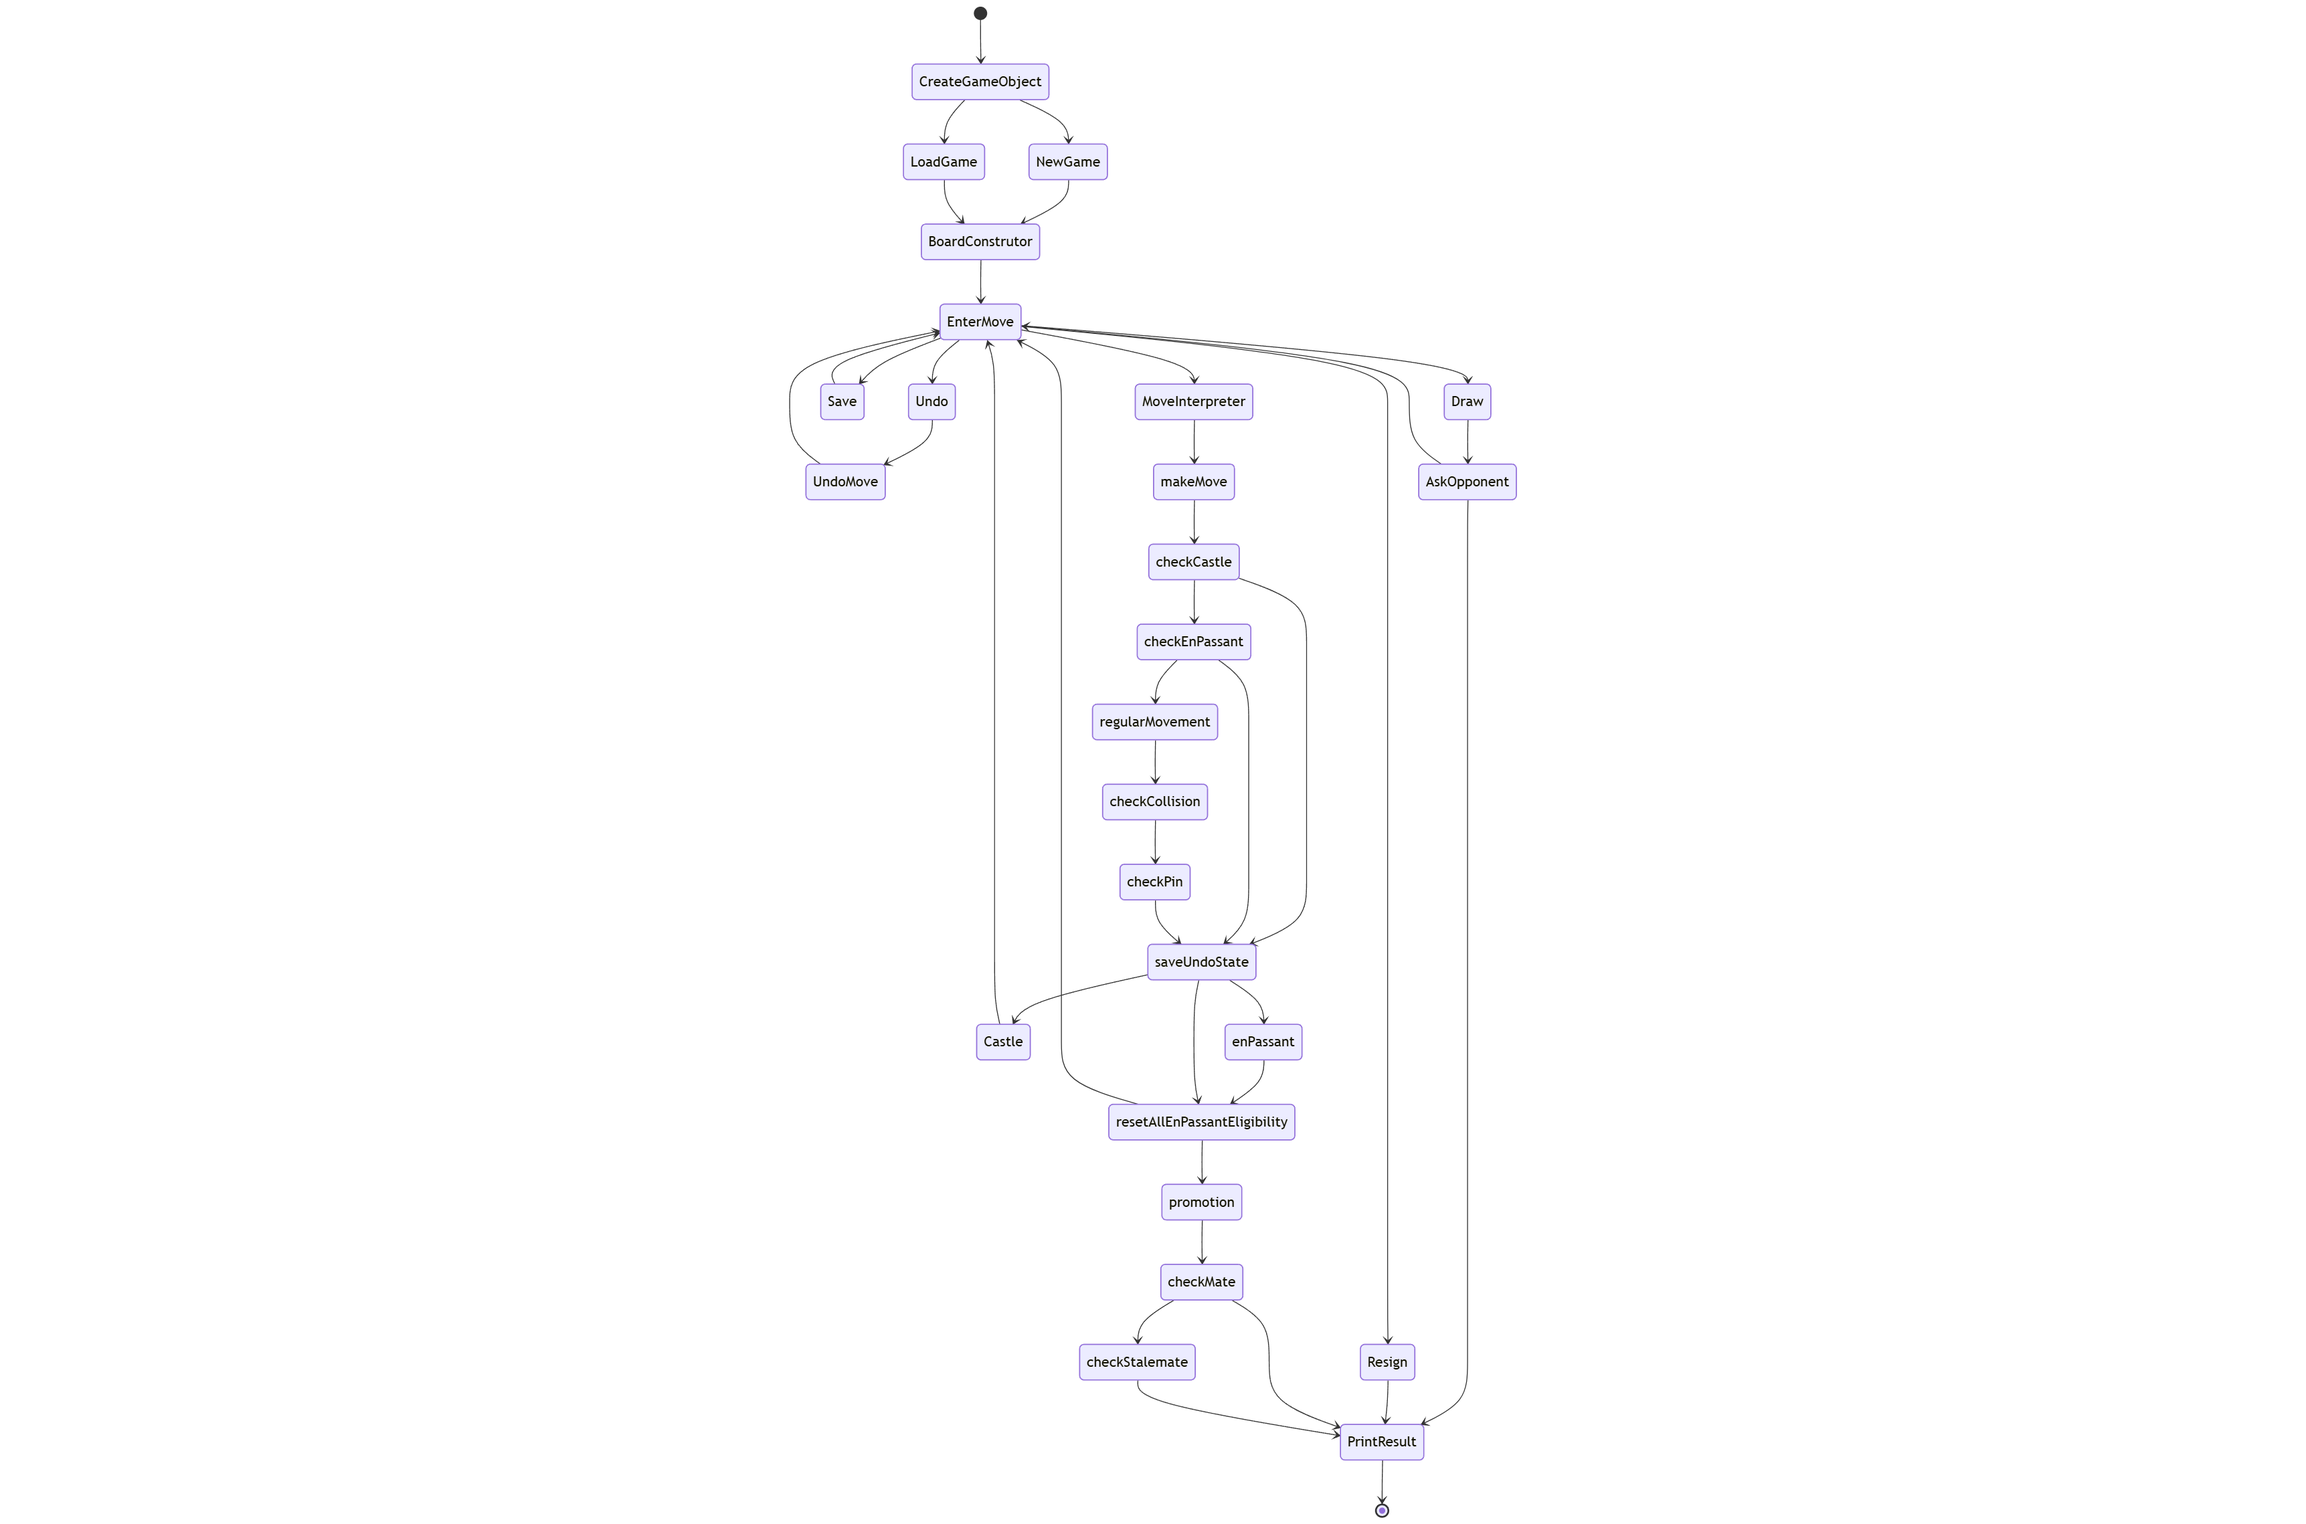
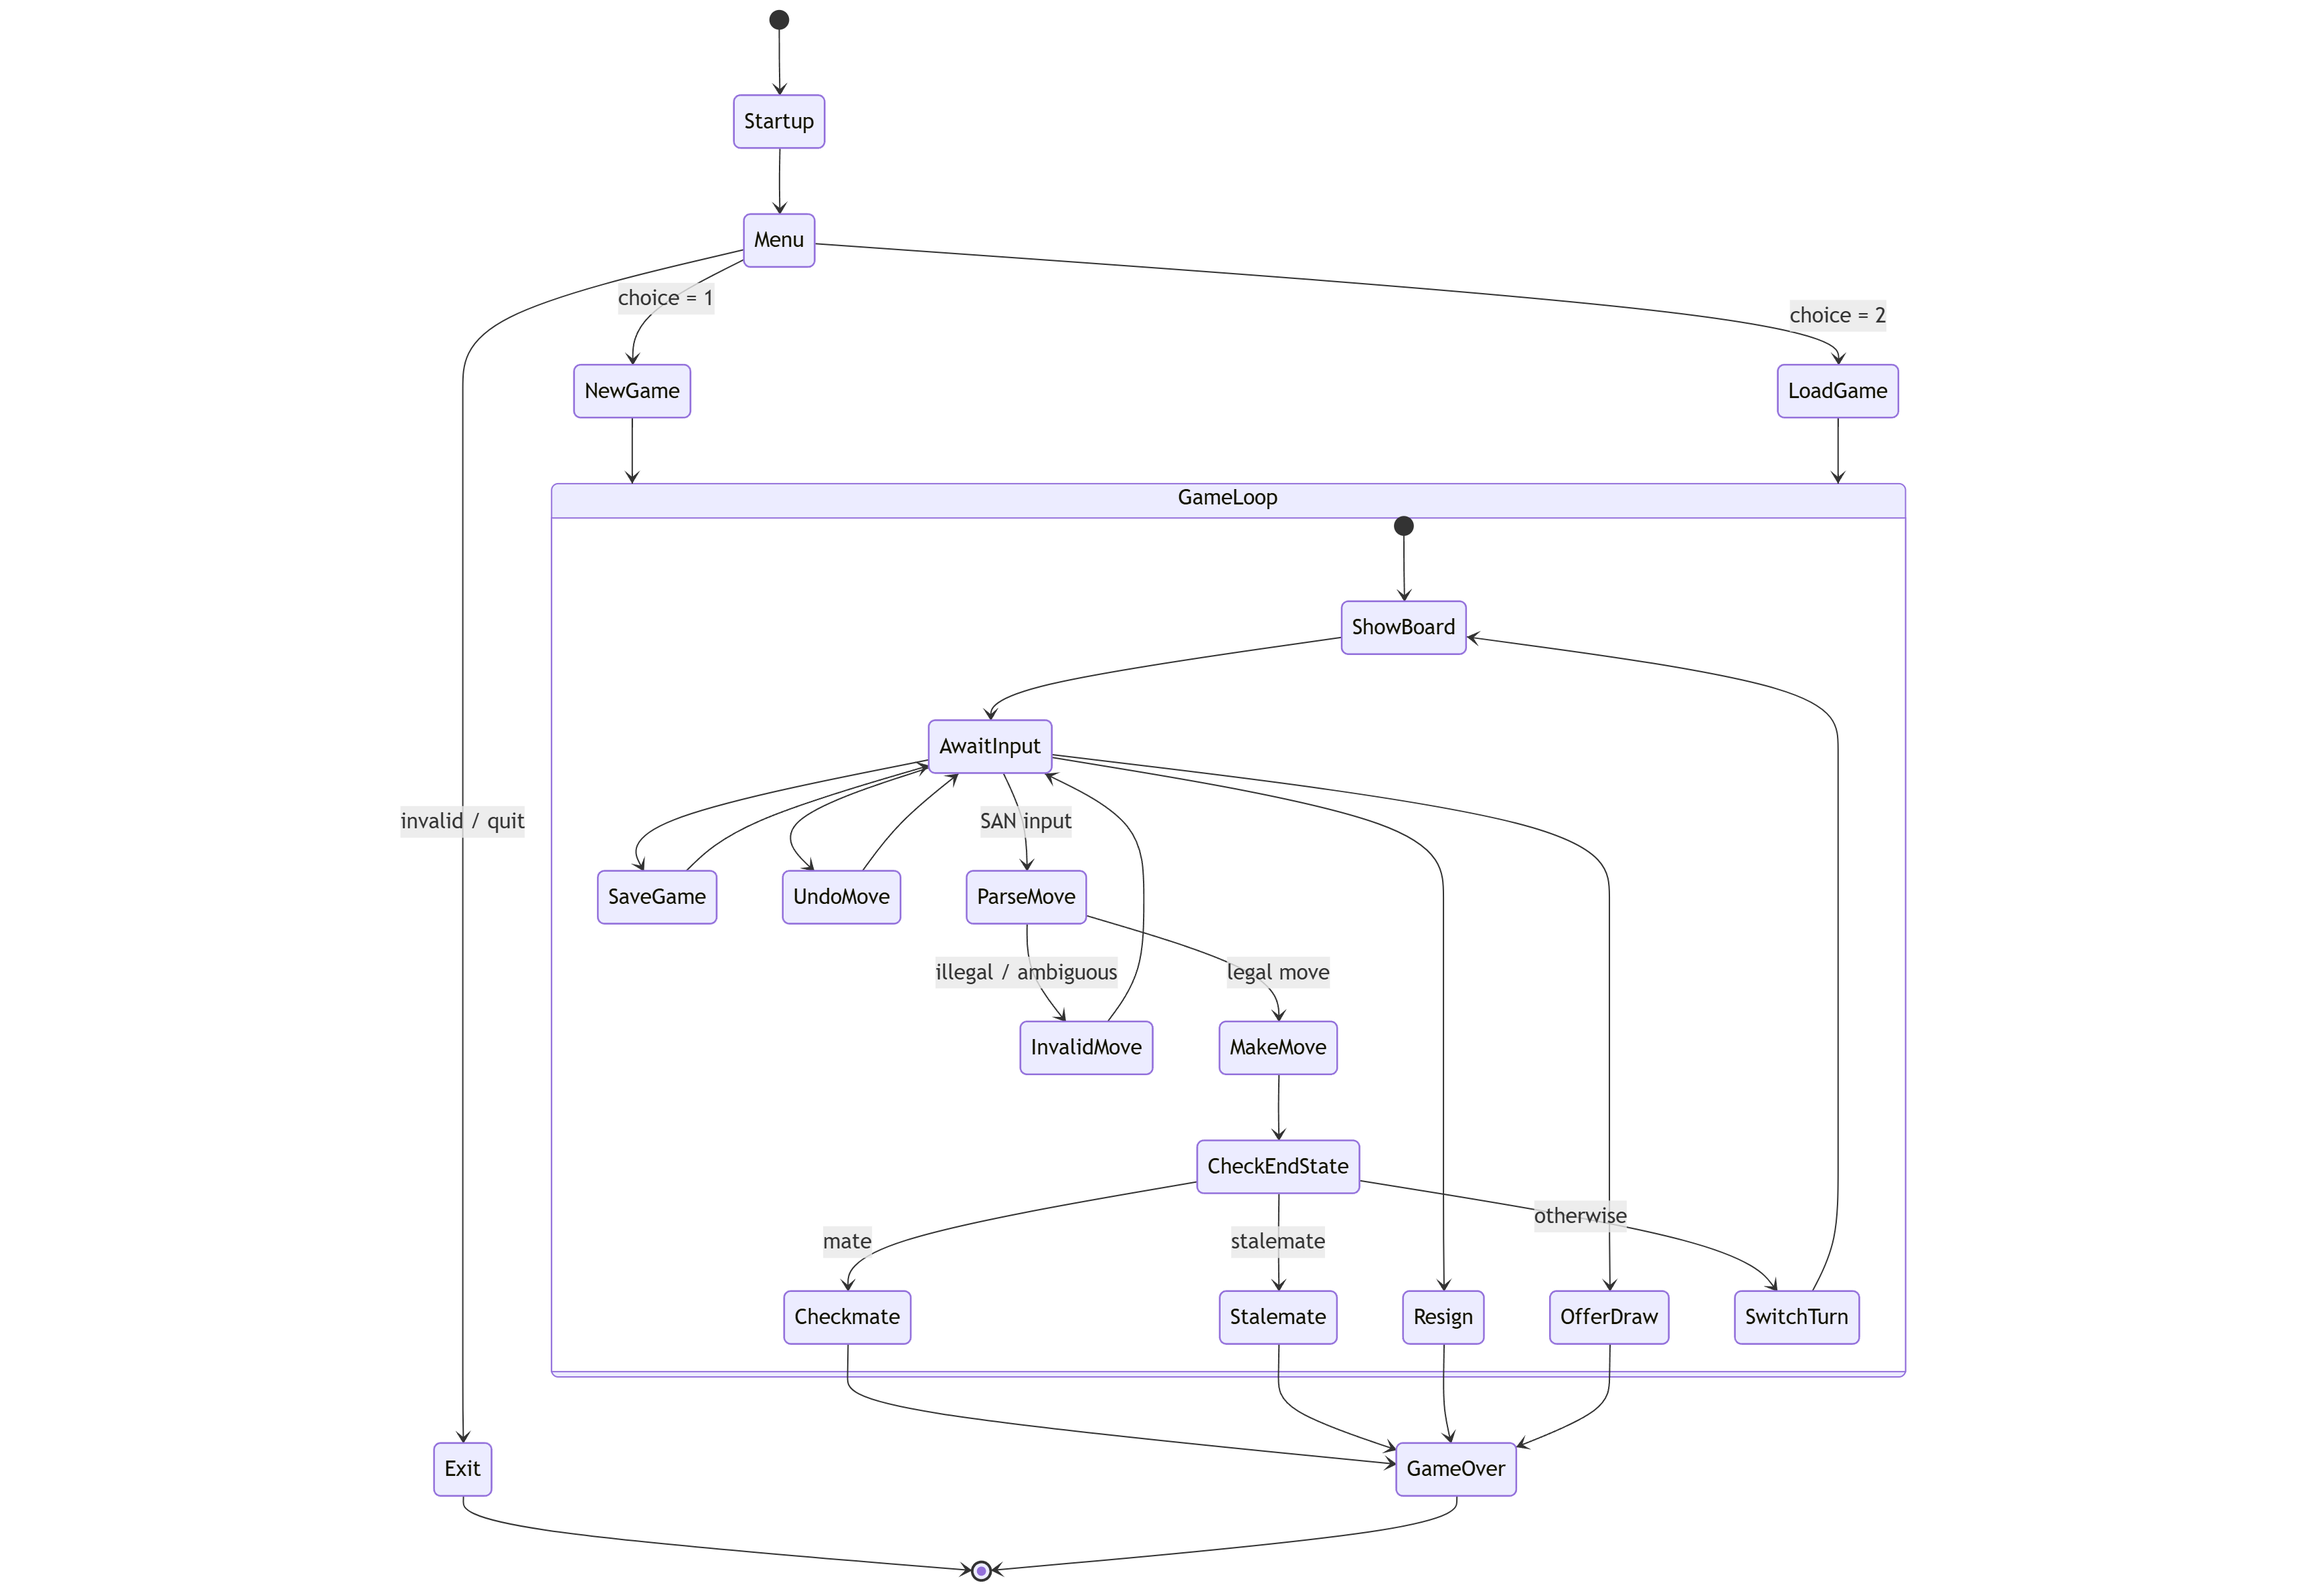
Viktor's comments about the code

diff --git a/src/chess/Board.java b/src/chess/Board.java
@@ -23,7 +23,7 @@ public class Board {
     // There are probably things I missed or got wrong so proceed with caution
     // Do your best and good luck! - Iveto :)
 
-    //default constructor - new game
+    // Default constructor - new game
     // The board has to be set up with the beginning positions of the pieces:
     // Rooks in the corners, Knights next to the rooks etc.
     // Above is black in lowercase letters, below is white in uppercase letters
@@ -57,7 +57,7 @@ public class Board {
         squares[7][4] = new King(true);
     }
 
-    //load constructor - load game
+    // Load constructor - load game
     // This constructor accepts a Piece[8][8] array and COPIES its elements in squares
     // Make sure it is a deep copy and not a shallow one
     // Do not forget input validation
@@ -91,7 +91,7 @@ public class Board {
         undoAvailable = true;
     }
 
-    //has undoMove, can't stack undo's
+    // has undoMove, can't stack undo's
     // Reverse the last played move
     // For example if I am black and play a move that is accepted and the board is updated
     // I can reverse this move or my opponent can play
@@ -282,6 +282,11 @@ public class Board {
         return false;
     }
 
+
+    // hasValidMoves()
+    // Helper method for checking Mate & Stalemate
+    // Checks if there are any valid moves for any player (returns true if there's at least one valid move, else returns false)
+    // isKingWhite is a boolean used to tell if you are trying to see if the white or black king is in check (follows the same logic as the rest of the code)
     public boolean hasValidMoves(boolean isKingWhite) {
         for(int fromFst = 0; fromFst < 8; fromFst++) {
             for(int fromSnd = 0; fromSnd < 8; fromSnd++) {
@@ -335,16 +340,23 @@ public class Board {
         return false;
     }
 
+
+    // checkMate()
+    // Checks if the king has been checkmated, returns true if there is a checkmate and false if there isn't one
+    // isKingWhite is a boolean used to tell if you are trying to see if the white or black king is in check (follows the same logic as the rest of the code)
     public boolean checkMate(boolean isKingWhite) {
         return (!hasValidMoves(isKingWhite)) && (checkCheck(isKingWhite));
     }
 
+    // checkStalemate()
+    // Check if the king is in stalemate, returns true if there is a stalemate and false if there isn't one
+    // isKingWhite is a boolean used to tell if you are trying to see if the white or black king is in check (follows the same logic as the rest of the code)
     public boolean checkStalemate(boolean isKingWhite) {
         return (!hasValidMoves(isKingWhite)) && (!checkCheck(isKingWhite));
     }
 
     // checkCastle()
-    // Checks if it is a king move
+    // Checks if the given move is a king's move
     // Checks if the king is moving 2 squares to the left or right
     // ---------------- If any check after this line fails than throw an InvalidMove error
     // Checks that there are no pieces between the king and rook
@@ -354,13 +366,6 @@ public class Board {
     // Checks that the king isn't going through squares that are attacked by enemy pieces
     // Checks that the king doesn't end up on a square attacked by enemy piece
     // If all checks pass return true. If one of the checks above the line fails return false
-
-    // castle()
-    // Moves the king and rook to the right places
-    // Careful! The king can castle both right and left side and there are slight differences
-    // call only AFTER checkCastle()
-
-    // checkCastle()
     private boolean checkCastle(Coordinates from, Coordinates to) {
         Piece king = getPiece(from);
         if (!(king instanceof King)) return false;
@@ -396,6 +401,9 @@ public class Board {
     }
 
     // castle()
+    // Moves the king and rook to the right places
+    // Careful! The king can castle both right and left side and there are slight differences
+    // call only AFTER checkCastle()
     private void castle(Coordinates from, Coordinates to) {
 
         int row = from.getFirst();
@@ -411,39 +419,6 @@ public class Board {
         ((King) king).setHasMoved(true);
         ((Rook) rook).setHasMoved(true);
     }
-
-    // checkEnPassant()
-    // Checks that it is a pawn move
-    // Checks that the pawn (pawn1) is next to another pawn (pawn2)
-    // Checks that pawn1 is trying to go to the square below pawn2
-    // ---------------- If any check after this line fails than throw an InvalidMove error
-    // Checks that LAST move pawn2 moved 2 squares up
-    // If all checks pass return true. If one of the checks above the line fails return false
-
-    // EnPassant()
-    // Moves the pawn and removes the captured enemy pawn
-    // call only AFTER checkEnPassant()
-
-    // checkPin()
-    // Checks if after a piece moves if the king will be in check
-    // Should probably not actually change the board
-    // You can use checkCheck() to make it easier maybe?
-    // If after the move the king will be in check throw InvalidMove
-
-    // promotion()
-    // Checks if it is a pawn move
-    // Checks if the pawn reached the end of the board
-    // Gets input form somewhere that tells it what to promote the pawn to
-    // Replaces the pawn with the new piece
-
-    // checkMate()
-    // Checks if the king is checkmated
-    // You can use checkCheck() and/or checkStalemate() to make it easier maybe?
-    // Returns true if he is, else false
-
-    // checkStalemate()
-    // Checks if the king is stalemated
-    // Returns true if he is, else false
 
     // checkCollision()
     // This function checks if there are any pieces between 2 sets of coordinates
@@ -496,8 +471,9 @@ public class Board {
         return false;
     }
 
-    //gets info from game for the next move - what piece and where is it moving
-    //every odd turn is White, every even turn is Black
+    // makeMove()
+    // gets info from game for the next move - what piece and where it's moving
+    // every odd turn is White, every even turn is Black
     // This function handles move validation and updating the board:
     // calls checkCastle() and depending on the result calls castle()
     // If castle() is called the function should end in some way
@@ -593,10 +569,8 @@ public class Board {
         boolean opponentWhite = !moving.isWhite();
 
         if (checkMate(opponentWhite)) {
-//            System.out.println("CHECKMATE!");
             return 1;
         } else if (checkStalemate(opponentWhite)) {
-//            System.out.println("STALEMATE!");
             return 2;
         }
 
@@ -605,11 +579,10 @@ public class Board {
 
 
     // toString method
-    // Returns a string that is going to get printed on the console
+    // Returns a string for the program to print in the console
     // Uppercase letters are for white
     // Lowercase letters are for black
     // Letters: N (Knight), Q, R, P, B, K (King)
-
     @Override
     public String toString() {
         StringBuilder sb = new StringBuilder();
@@ -655,6 +628,13 @@ public class Board {
         }
     }
 
+    // checkEnPassant()
+    // Checks that it is a pawn move
+    // Checks that the pawn (pawn1) is next to another pawn (pawn2)
+    // Checks that pawn1 is trying to go to the square below pawn2
+    // ---------------- If any check after this line fails than throw an InvalidMove error
+    // Checks that LAST move pawn2 moved 2 squares up
+    // If all checks pass return true. If one of the checks above the line fails return false
     private boolean checkEnPassant(Coordinates from, Coordinates to) {
 
         Piece moving = getPiece(from);
@@ -687,6 +667,9 @@ public class Board {
         return true;
     }
 
+    // EnPassant()
+    // Moves the pawn and removes the captured enemy pawn
+    // call only AFTER checkEnPassant()
     private void enPassant(Coordinates from, Coordinates to) {
 
         Pawn pawn = (Pawn) getPiece(from);
@@ -703,6 +686,11 @@ public class Board {
         //resetAllEnPassantEligibility();
     }
 
+    // promotion()
+    // Checks if it is a pawn move
+    // Checks if the pawn reached the end of the board
+    // Gets input form somewhere that tells it what to promote the pawn to
+    // Replaces the pawn with the new piece
     private void promotion(Coordinates coords, char promotionChoice) {
 
         Piece piece = getPiece(coords);
@@ -737,6 +725,11 @@ public class Board {
         squares[coords.getFirst()][coords.getSecond()] = newPiece;
     }
 
+    // checkPin()
+    // Checks if after a piece moves if the king will be in check
+    // Should probably not actually change the board
+    // You can use checkCheck() to make it easier maybe?
+    // If after the move the king will be in check throw InvalidMove
     private void checkPin(Coordinates from, Coordinates to) {
 
         Piece movingPiece = getPiece(from);
@@ -760,10 +753,13 @@ public class Board {
         }
     }
 
-    public boolean isLegalMove(Coordinates from, Coordinates to, boolean whiteTurn, char promotionChoice) {
+    // isLegalMove()
+    // Comments?
+    //
+    public boolean isLegalMove(Coordinates from, Coordinates to, boolean isWhiteTurn, char promotionChoice) {
         try {
             saveUndoState();
-            makeMove(from, to, whiteTurn, promotionChoice);
+            makeMove(from, to, isWhiteTurn, promotionChoice);
             undoMove();
             return true;
         } catch (InvalidMove e) {

diff --git a/src/chess/King.java b/src/chess/King.java
@@ -3,12 +3,13 @@ package chess;
 public class King extends Piece {
     private boolean hasMoved;
 
+    // King constructors
     public King(boolean isWhite) {
         super(isWhite, isWhite ? 'K' : 'k');
     }
 
     // Copy constructor
-    // If you have any mutable fields add them to it
+    // If you have any mutable fields, add them to it
     public King(King other) {
         super(other);
     }
@@ -18,6 +19,7 @@ public class King extends Piece {
         return new King(this);
     }
 
+    // King movement - 1 square in all 8 directions (if the board allows it)
     @Override
     public boolean regularMovement(Coordinates from, Coordinates to) {
         if(from.getFirst() == to.getFirst() && from.getSecond() == to.getSecond())

diff --git a/src/chess/Knight.java b/src/chess/Knight.java
@@ -2,6 +2,7 @@ package chess;
 
 public class Knight extends Piece {
 
+    // Knight constructors
     public Knight(boolean isWhite) {
         super(isWhite, isWhite ? 'N' : 'n');
     }
@@ -17,6 +18,7 @@ public class Knight extends Piece {
         return new Knight(this);
     }
 
+    // Knight movement - L-shaped (if the board allows it)
     @Override
     public boolean regularMovement(Coordinates from, Coordinates to) {
         if(from.getFirst() == to.getFirst() && from.getSecond() == to.getSecond())

diff --git a/src/chess/Piece.java b/src/chess/Piece.java
@@ -16,6 +16,7 @@ abstract public class Piece {
         this.symbol = other.symbol;
     }
 
+    // Checks whether the move puts the piece outside the board (not allowed)
     public boolean isWithinBoard(Coordinates pos) {
         return (pos.getFirst() >= 0 && pos.getFirst() <= 7) && (pos.getSecond() >= 0 && pos.getSecond() <= 7);
     }
